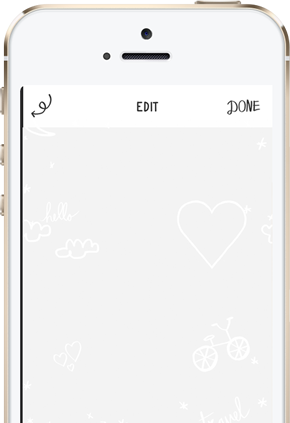
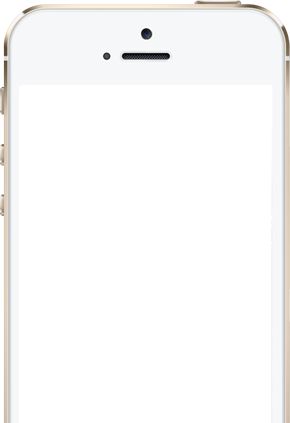
Add carousel for demo images

Changed region(s): [[0.0621, 0.1844, 0.1862, 1.0], [0.7759, 0.2151, 0.9, 0.2766], [0.4655, 0.2151, 0.5586, 0.2766]]

diff --git a/static/css/index.css b/static/css/index.css
@@ -55,17 +55,43 @@ body div.container
   height: 48px;
 }
 
-#demo-img-wrap {
+.demo-img-wrap, .loop-img-container {
   width: 320px;
   height: 466px;
   background-image: url('/static/img/bg-iphone-gold.png');
   background-repeat: no-repeat;
   background-size: cover;  
 }
-#demo-img-wrap img {
+  .loop-img-wrap {
+    margin-top: 95px;
+    margin-left: 22px;
+    width: 280px;
+    height: 374px;
+  }
+    .loop-img-wrap .carousel {
+      /*top: 95px;*/
+    }
+    .loop-img-wrap a img {
+      width: 280px;
+    }
+    /* style override */
+    #carousel-images .carousel-indicators {
+      bottom: 64px;
+    }
+    #carousel-images .carousel-indicators li {
+      border: 1px solid #FF6138;
+    }
+    #carousel-images .carousel-indicators li.active {
+      background-color: #FF6138;
+    }
+    #carousel-images .carousel-control i {
+      margin-top: 178px;
+    }
+
+.demo-img-wrap img {
   margin-top: 95px;
   margin-left: 22px;
-  width: 280px; 
+  width: 280px;
 }
 #survey-good-place {
   /*background: #333;*/

diff --git a/static/js/main.js b/static/js/main.js
@@ -3,7 +3,10 @@ $(document).ready(function(){
     glb_events();
     events();
     submitEvents.bind();
+}).load(function(){
+    
 });
+
 
 function rightNow() {
     var d = new Date();
@@ -29,6 +32,8 @@ function glb_events(){
 }
 
 function events(){
+
+    $('.carousel').carousel();
 
     $('#gender-block').find('.info-box').hover(function(e){
         $(this).find('.box-footer').find('.arrow-up').toggleClass('invisible');
@@ -132,6 +137,12 @@ function bindCommentEvents() {
         }
     });    
 }
+
+
+// var loopTimer = setInterval(loop, 2000);
+// function loop(){
+//     loopTimer
+// }
 
 
 var submitEvents = {

diff --git a/settings.py b/settings.py
@@ -5,34 +5,54 @@ SITE_TITLE = u"APP 點菜 ?"
 APPLE_BADGE = 'app-store-badge.svg'
 GOOGLE_BADGE = 'google-play.png'
 
+LOOP_CONTROL = True
+LOOP_INDICATORS = False
+LOOP_IMAGES = [
+    {
+        'order': 0,
+        'file': 'demo/qrcode.png',
+        'stay': 20,
+        'url': '#',
+    },
+    {
+        'order': 1,
+        'file': 'demo/menu.png',
+        'stay': 20,
+        'url': '#',
+    },
+    {
+        'order': 2,
+        'file': 'demo/history.png',
+        'stay': 20,
+        'url': '#',
+    },
+    {
+        'order': 3,
+        'file': 'demo/done.png',
+        'stay': 20,
+        'url': '#',
+    },
+]
+LOOP_INTERVAL = 20
+
+
 sections = {
     'demo-heading': [
-        # {
-        #     'text': u'如果,',
-        #     'subTxt': u'點菜可以這樣:',
-        #     'phone': True,
-        #     'scenario': False,
-        #     'textClass': 'fc-black',
-        #     'subTxtClass': 'fc-black',                  
-        #     'cssClass': 'pt-160 b-w',
-        #     'image': {'demo': 'demo/qrcode.png' }
-        # },
         {
             'text': u'如果,',
             'subTxt': u'點菜可以這樣:',
             'phone': True,
-            'scenario': False,
             'textClass': 'fc-black',
             'subTxtClass': 'fc-black',                  
             'cssClass': 'pt-192 b-w',
-            'image': {'demo': 'demo/menu.png' }
+            'image': { 'demo': sorted(LOOP_IMAGES, key=lambda x:x['order'])[1]['file'] },
+            'loop': True,
         },
         {
             'text': u'輕輕一滑',
             'subTxt': u'點了什麼都一目了然  <i class="fa fa-smile-o"></i>',
             'triTxt': u'',
             'phone': True,
-            'scenario': False,
             'textClass': 'fc-black',
             'subTxtClass': 'fc-black',
             'cssClass': 'pt-192 b-w',
@@ -41,9 +61,7 @@ sections = {
         {
             'text': u'無論是在',
             'subTxt': u'文青的咖啡廳，還是熱鬧的快炒店',
-            'phone': False,
             'scenario': True,
-            # 'id': 'survey-good-place',
             'left': '4', 'right': '8',
             'textClass': 'fc-white',
             'subTxtClass': 'fc-white',
@@ -55,7 +73,6 @@ sections = {
             'textClass': 'fc-black',
             'badges': False,
             'phone': True,
-            'scenario': False,
             'cssClass': 'pt-192',
             'image': {'demo': 'demo/done.png' }
         },
@@ -85,7 +102,6 @@ sections = {
         {
             'text': u'等等',
             'subTxt': u'我還有話要說：',
-            # 'form-thanks': True,
             'form-comment': True,
             'textClass': 'fc-white fs-48',
             'subTxtClass': 'fc-white',
